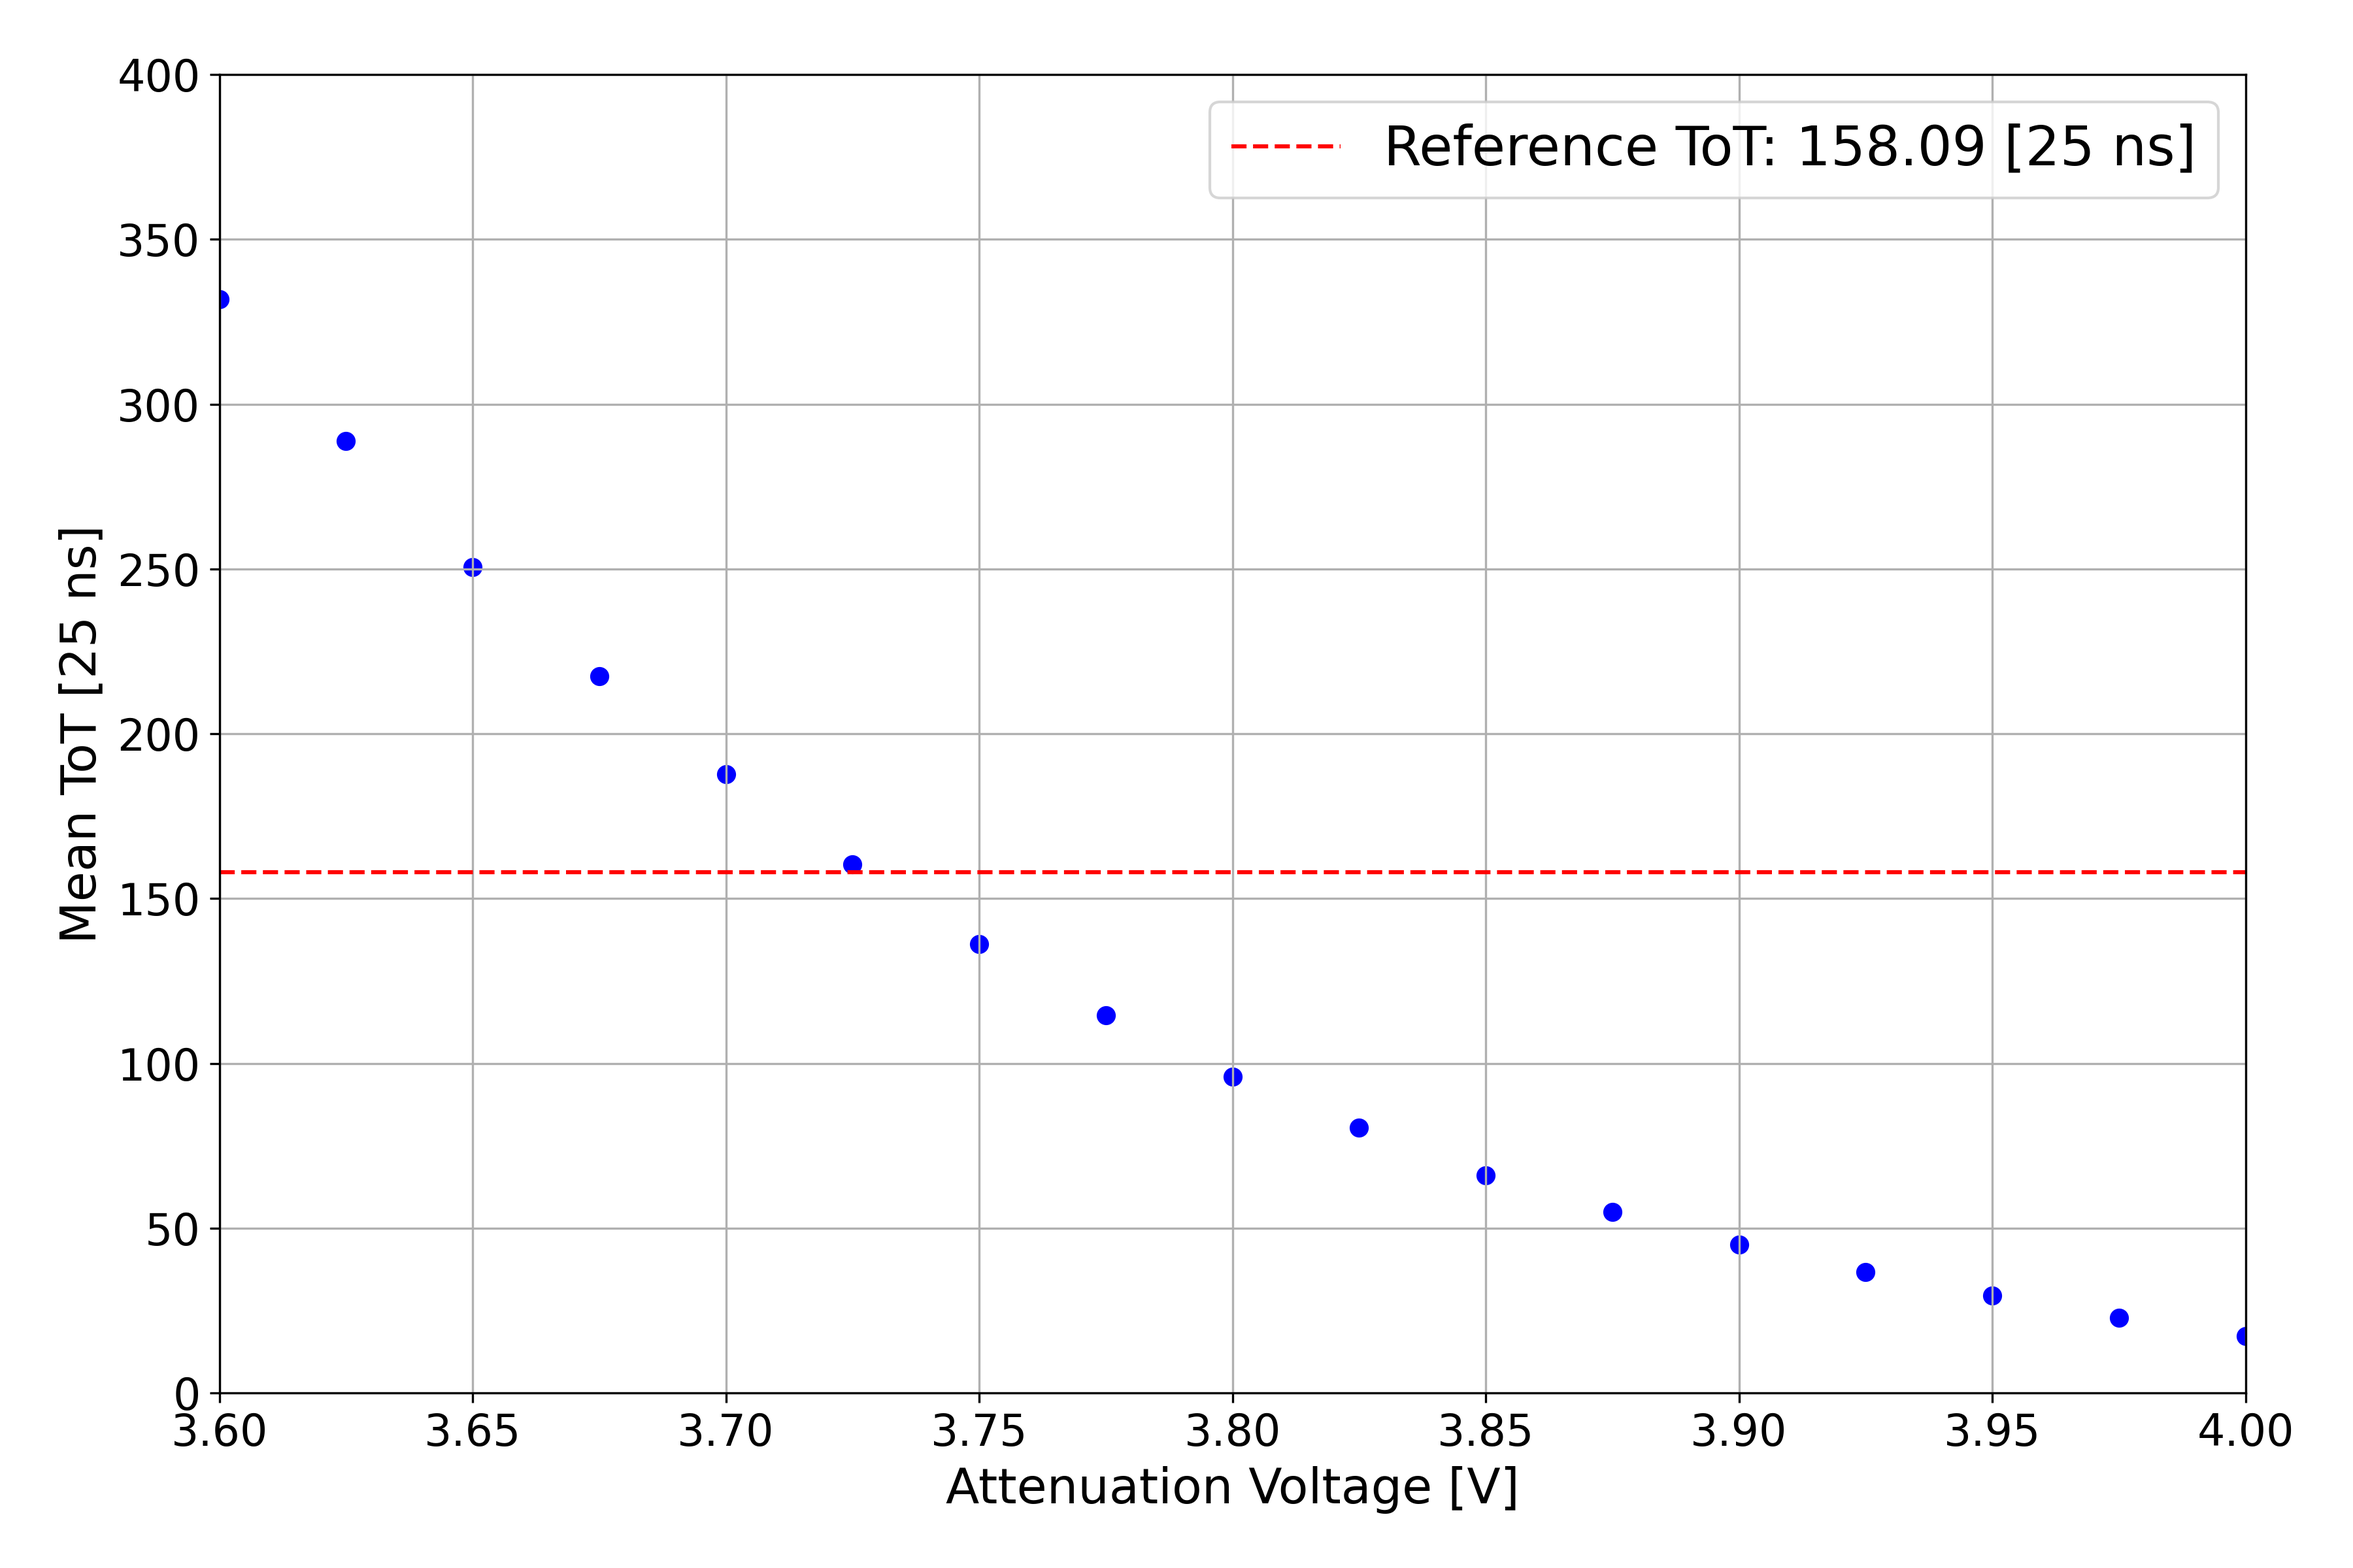
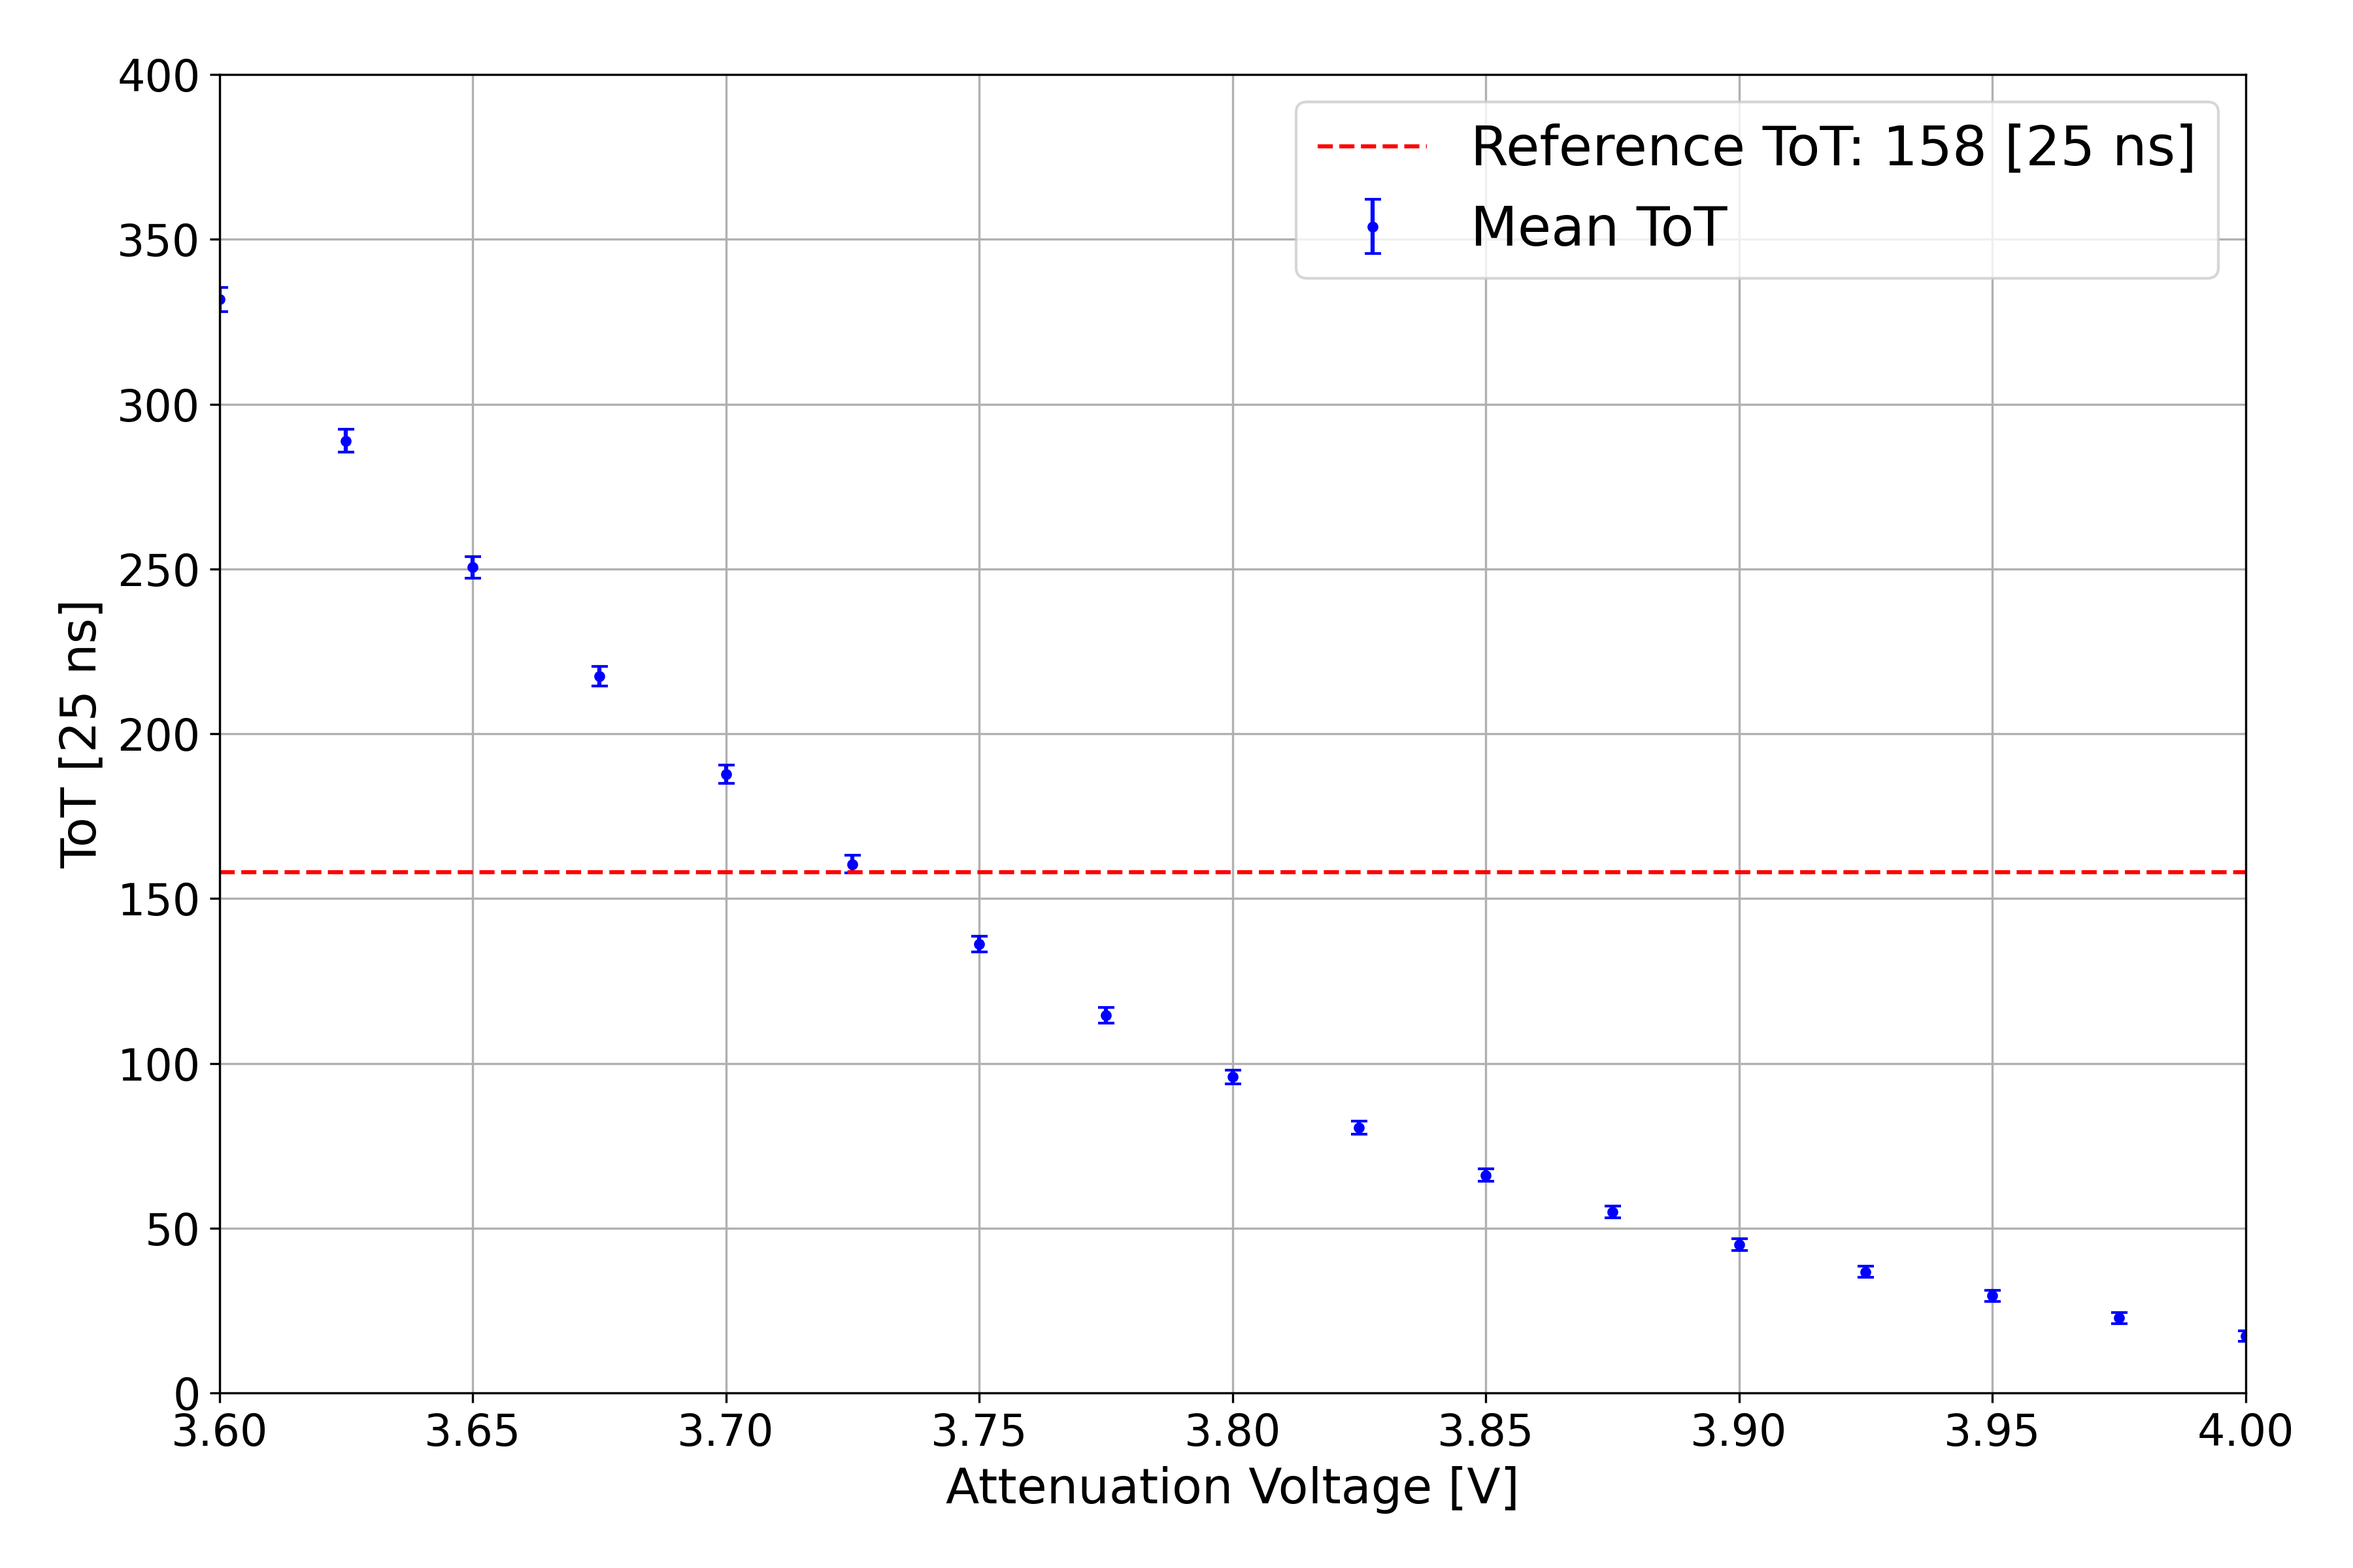
Created the errorbars for the heatmaps.

diff --git a/timepix4/heatmap/plot_avg_tot_heatmap.py b/timepix4/heatmap/plot_avg_tot_heatmap.py
@@ -2,7 +2,6 @@ from timepix4.utils import createdicts
 import uproot, ast
 import pandas as pd
 import matplotlib.pyplot as plt
-from matplotlib.lines import Line2D
 import seaborn as sns
 import numpy as np
 
@@ -40,6 +39,7 @@ def VisualizeToT(filepath: str) -> None:
 
         df_filtered = FilterAndUnwrap(df_data)
         mean_tots = df_filtered.groupby(["row", "col"])["tot"].mean().reset_index()
+        std_tots = df_filtered.groupby(["row", "col"])["tot"].std().reset_index()
 
         center_row, center_col = 230, 228
         row_min, row_max = center_row - 3, center_row + 3
@@ -49,29 +49,54 @@ def VisualizeToT(filepath: str) -> None:
             mean_tots["row"].between(row_min, row_max)
             & mean_tots["col"].between(col_min, col_max)
         ]
-
+        std_tots = std_tots[
+            std_tots["row"].between(row_min, row_max)
+            & std_tots["col"].between(col_min, col_max)
+        ]
         mean_tots["charge_manual"] = mean_tots.apply(
             lambda r: r["tot"] * CorrectionFactors.get((r["col"], r["row"]), 0.10),
             axis=1,
         )
+
+        std_tots["charge_manual"] = std_tots.apply(
+            lambda r: r["tot"] * CorrectionFactors.get((r["col"], r["row"]), 0.10),
+            axis=1,
+        )
+
         heatmap_tot = mean_tots.pivot(index="row", columns="col", values="tot")
         rows = list(range(row_min, row_max + 1))
         cols = list(range(col_min, col_max + 1))
+        heatmap_tot = heatmap_tot.reindex(index=rows, columns=cols, fill_value=np.nan)
+
+        std_heatmap_tot = std_tots.pivot(
+            index="row", columns="col", values="tot"
+        ).reindex(index=rows, columns=cols, fill_value=np.nan)
+        annot_tot = heatmap_tot.combine(
+            std_heatmap_tot,
+            lambda m_col, s_col: (
+                m_col.map(lambda v: f"{v:.3g}")
+                + "\n±"
+                + s_col.map(lambda v: f"{v:.3g}")
+            ),
+        )
+
+        total_mean_tot = mean_tots["tot"].sum()
+        total_std_tot = np.sqrt((std_tots["tot"] ** 2).sum())
         heatmap_tot = heatmap_tot.reindex(index=rows, columns=cols, fill_value=np.nan)
         sns.heatmap(
             heatmap_tot,
             cmap="viridis",
             cbar_kws={"label": "ToT [25 ns]", "shrink": 0.85, "pad": 0.02},
             square=True,
-            annot=True,
-            fmt=".0f",
-            annot_kws={"size": 20},
+            annot=annot_tot,
+            fmt="",
+            annot_kws={"size": 16},
             ax=axes[i],
             vmax=600,
             vmin=0,
         )
         axes[i].set_title(
-            f"({letters[i]}) Total ToT = {round(mean_tots["tot"].sum())} [25 ns]"
+            f"({letters[i]}) Total ToT = {total_mean_tot:.3g} ± {total_std_tot:.3g} [25 ns]"
         )
         for spine in axes[i].spines.values():
             spine.set_visible(True)
@@ -83,32 +108,42 @@ def VisualizeToT(filepath: str) -> None:
         heatmap_charge = heatmap_charge.reindex(
             index=rows, columns=cols, fill_value=np.nan
         )
+        # Pivot std charge and prepare annotation DataFrame
+        std_heatmap_charge = std_tots.pivot(
+            index="row", columns="col", values="charge_manual"
+        ).reindex(index=rows, columns=cols, fill_value=np.nan)
+
+        annot_charge = heatmap_charge.combine(
+            std_heatmap_charge,
+            lambda m_col, s_col: (
+                m_col.map(lambda v: f"{v:.2g}")
+                + "\n±"
+                + s_col.map(lambda v: f"{v:.2g}")
+            ),
+        )
+        # Compute total charge mean and std
+        total_mean_charge = mean_tots["charge_manual"].sum()
+        total_std_charge = np.sqrt((std_tots["charge_manual"] ** 2).sum())
         sns.heatmap(
             heatmap_charge,
             cmap="viridis",
             cbar_kws={"label": "Charge [ke]", "shrink": 0.85, "pad": 0.02},
             square=True,
-            annot=True,
-            fmt=".0f",
-            annot_kws={"size": 20},
+            annot=annot_charge,
+            fmt="",
+            annot_kws={"size": 16},
             ax=axes[i + 3],
             vmax=60,
             vmin=0,
         )
         axes[i + 3].set_title(
-            f"({letters[i + 3]}) Total Charge = {round(mean_tots["charge_manual"].sum())} [ke]"
+            f"({letters[i + 3]}) Total Charge = {total_mean_charge:.2g} ± {total_std_charge:.2g} [ke]"
         )
         for spine in axes[i + 3].spines.values():
             spine.set_visible(True)
             spine.set_linewidth(1)
 
-    # plt.suptitle("Injected Charge = 50ke", fontweight="bold")
     plt.tight_layout()
-
-    # line = Line2D(
-    #     [0, 1], [0.485, 0.485], transform=fig.transFigure, color="black", linewidth=2
-    # )
-    # fig.add_artist(line)
     plt.subplots_adjust(
         left=0.03,
         right=0.97,
@@ -170,7 +205,7 @@ def VisualizeToT_single(filepath: str) -> None:
         cbar_kws={"label": "ToT [25 ns]"},
         square=True,
         annot=True,
-        fmt=".0f",
+        fmt=".3g",
         annot_kws={"size": 16},
     )
     ax.set_title(f"Total ToT = {round(mean_tots['tot'].sum())} [25 ns]")

diff --git a/timepix4/laser_power/plot_closest_voltage.py b/timepix4/laser_power/plot_closest_voltage.py
@@ -15,15 +15,26 @@ def PlotClosestVoltage(filepath: str, tot_ref: float) -> None:
             "figure.titlesize": 22,
         }
     )
-    plt.scatter(df["AttenuationVoltage"], df["Mean Tot"], marker="o", color="b")
+    # plt.scatter(df["AttenuationVoltage"], df["Mean Tot"], marker="o", color="b", label = "Mean ToT")
+    plt.errorbar(
+        df["AttenuationVoltage"],
+        df["Mean Tot"],
+        yerr=df["Std Tot"],
+        fmt="o",
+        markersize=3,
+        linestyle="None",
+        capsize=3,
+        color="b",
+        label="Mean ToT",
+    )
     plt.axhline(
         tot_ref,
         color="red",
         linestyle="--",
-        label=f"Reference ToT: {tot_ref:.2f} [25 ns]",
+        label=f"Reference ToT: {tot_ref:.3g} [25 ns]",
     )
     plt.xlabel("Attenuation Voltage [V]")
-    plt.ylabel("Mean ToT [25 ns]")
+    plt.ylabel("ToT [25 ns]")
     # plt.title("Mean ToT vs Attenuation Voltage")
     plt.xlim(3.6, 4)
     plt.ylim(0, 400)

diff --git a/LaserPower.py b/LaserPower.py
@@ -5,10 +5,10 @@ def main():
     filepath = "Data/Laser Power/Power.csv"
     # PowerVoltagePlot(filepath)
     # filepath = "Data/Laser Power/laser_power_933nm.csv"
-    CreateLookupTable(filepath, 3.725)
+    # CreateLookupTable(filepath, 3.725)
     # PlotRelativePower("lookup_table(230, 228).csv")
     # PlotLaserStability("Data/Laser Power/Laser Stability/Laser_over_time_6ke.csv")
-    # PlotClosestVoltage("Data/Laser Measurements/Laser Measurements 1/1Results(230, 228).csv", 158.09)
+    PlotClosestVoltage("Data/Laser Measurements/Laser Measurements 1 (228, 230)1/1Results(230, 228).csv", 158)
 
 if __name__ == "__main__":
     main()

diff --git a/Heatmaps.py b/Heatmaps.py
@@ -6,7 +6,7 @@ def main():
     # # PlotAvgToTHeatmap(filepath)
     # filefit = "Data/Test Pulse Data/N116-TestPulseResults.csv"
     # PlotAvgToTAndFitHeatmaps(filepath, filefit)
-    VisualizeToT("Data/Laser Measurements/Laser Measurements x/3_500.root")
+    VisualizeToT("Data/Laser Measurements/Laser Measurements x (228, 230)1/3_500.root")
     # VisualizeToT_single("Data/Laser Measurements/Laser Measurements 4/3_500.root")
 
 
